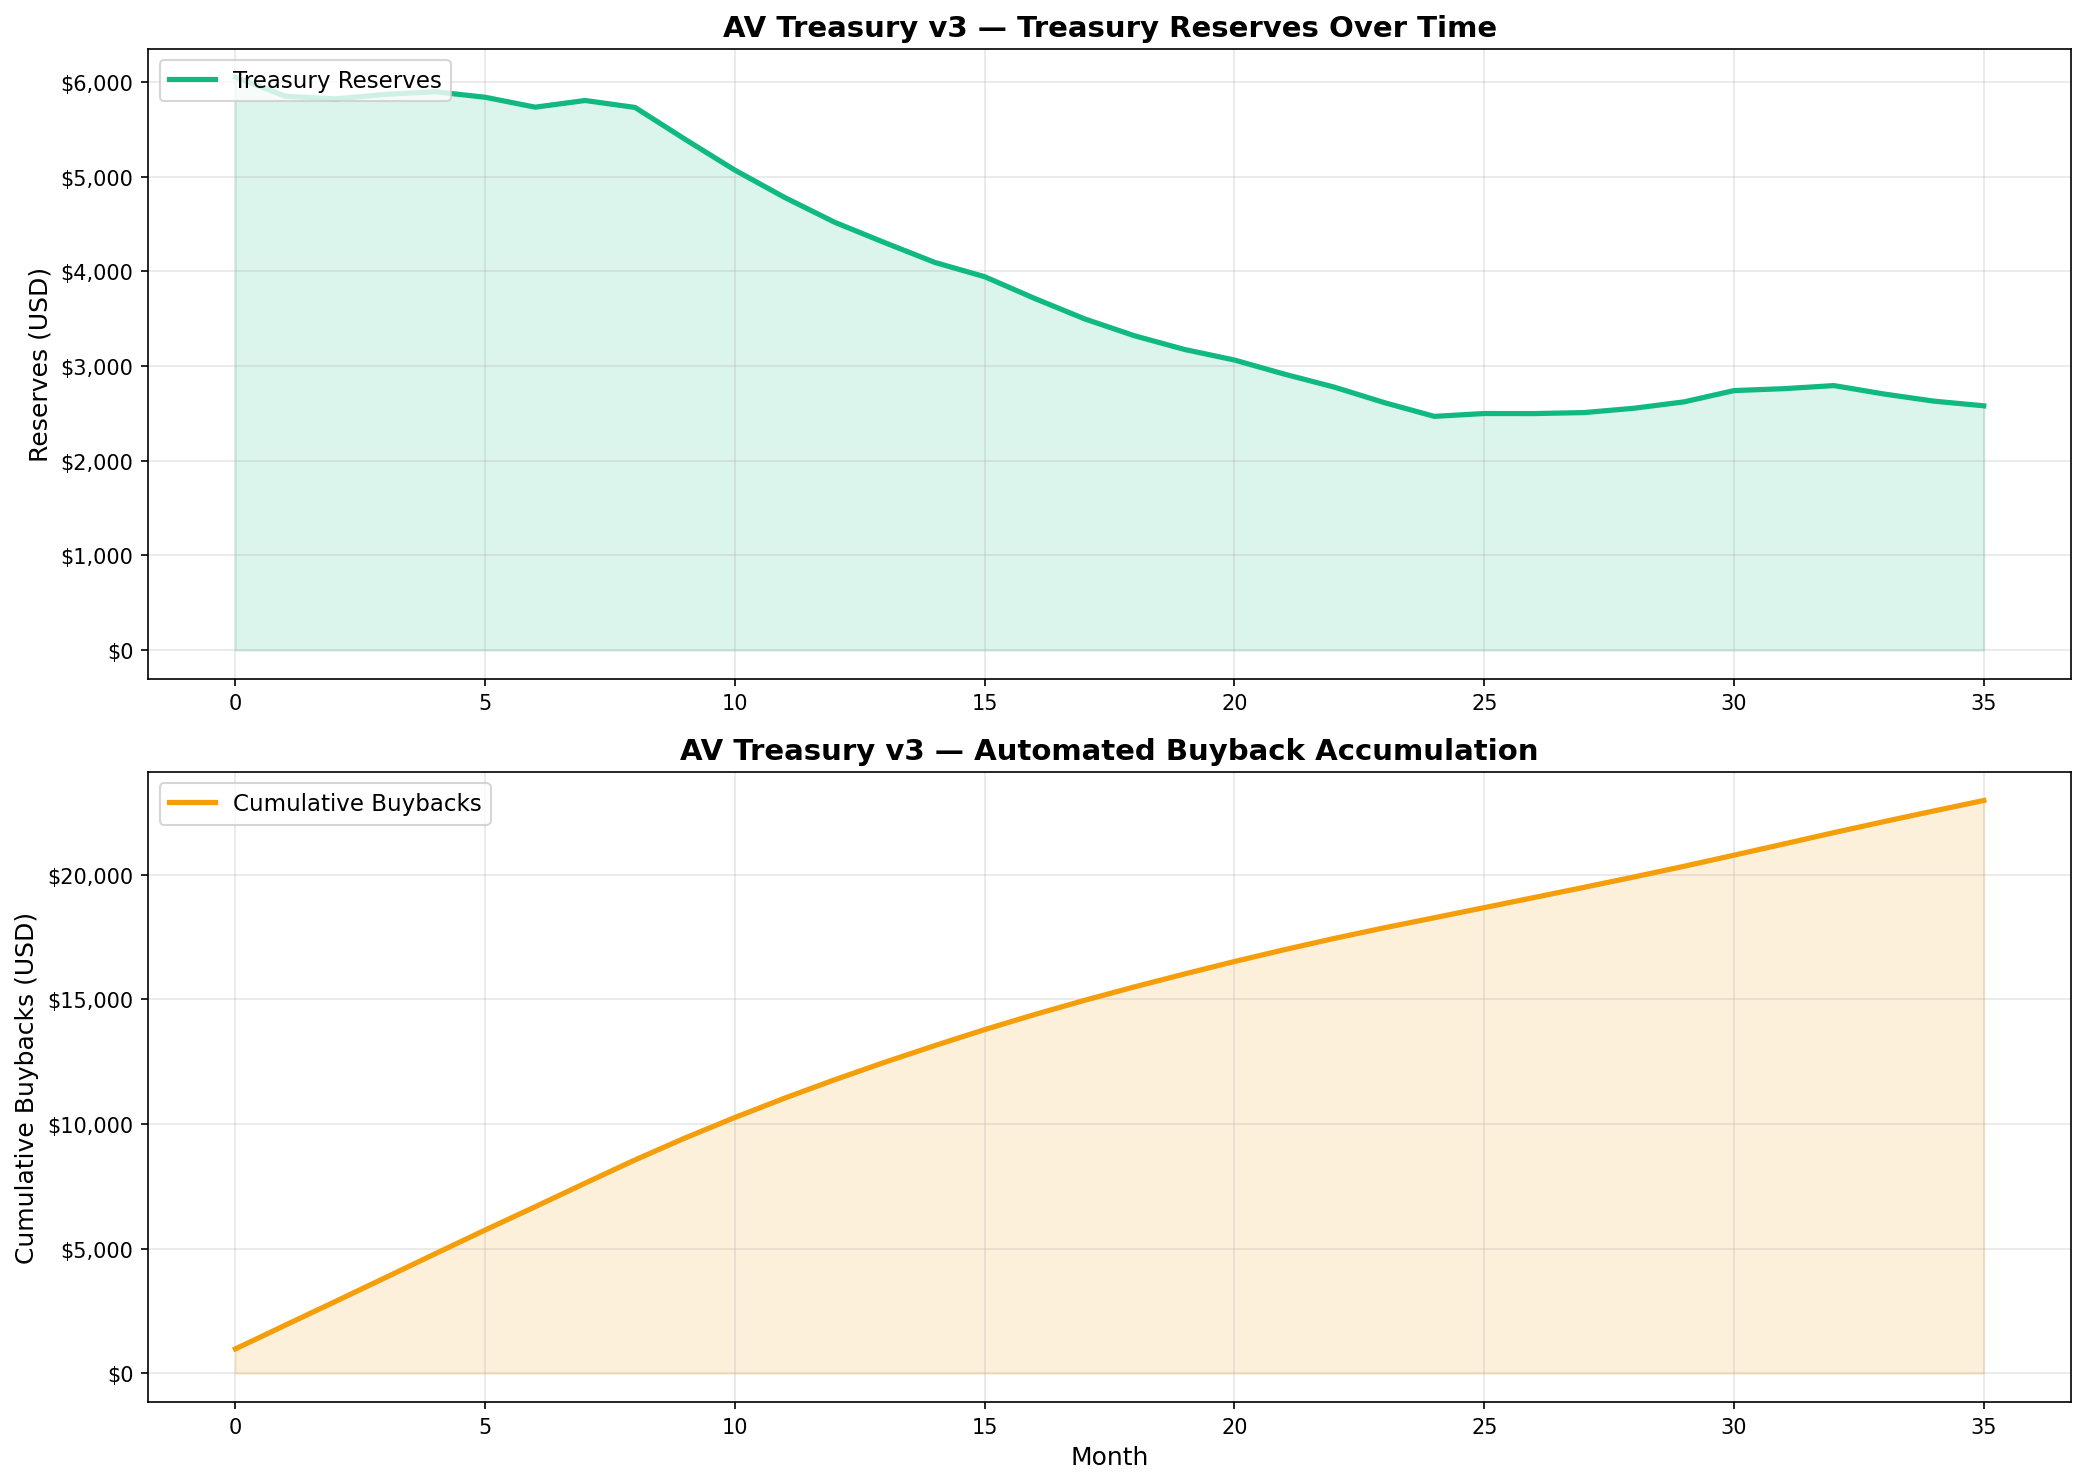
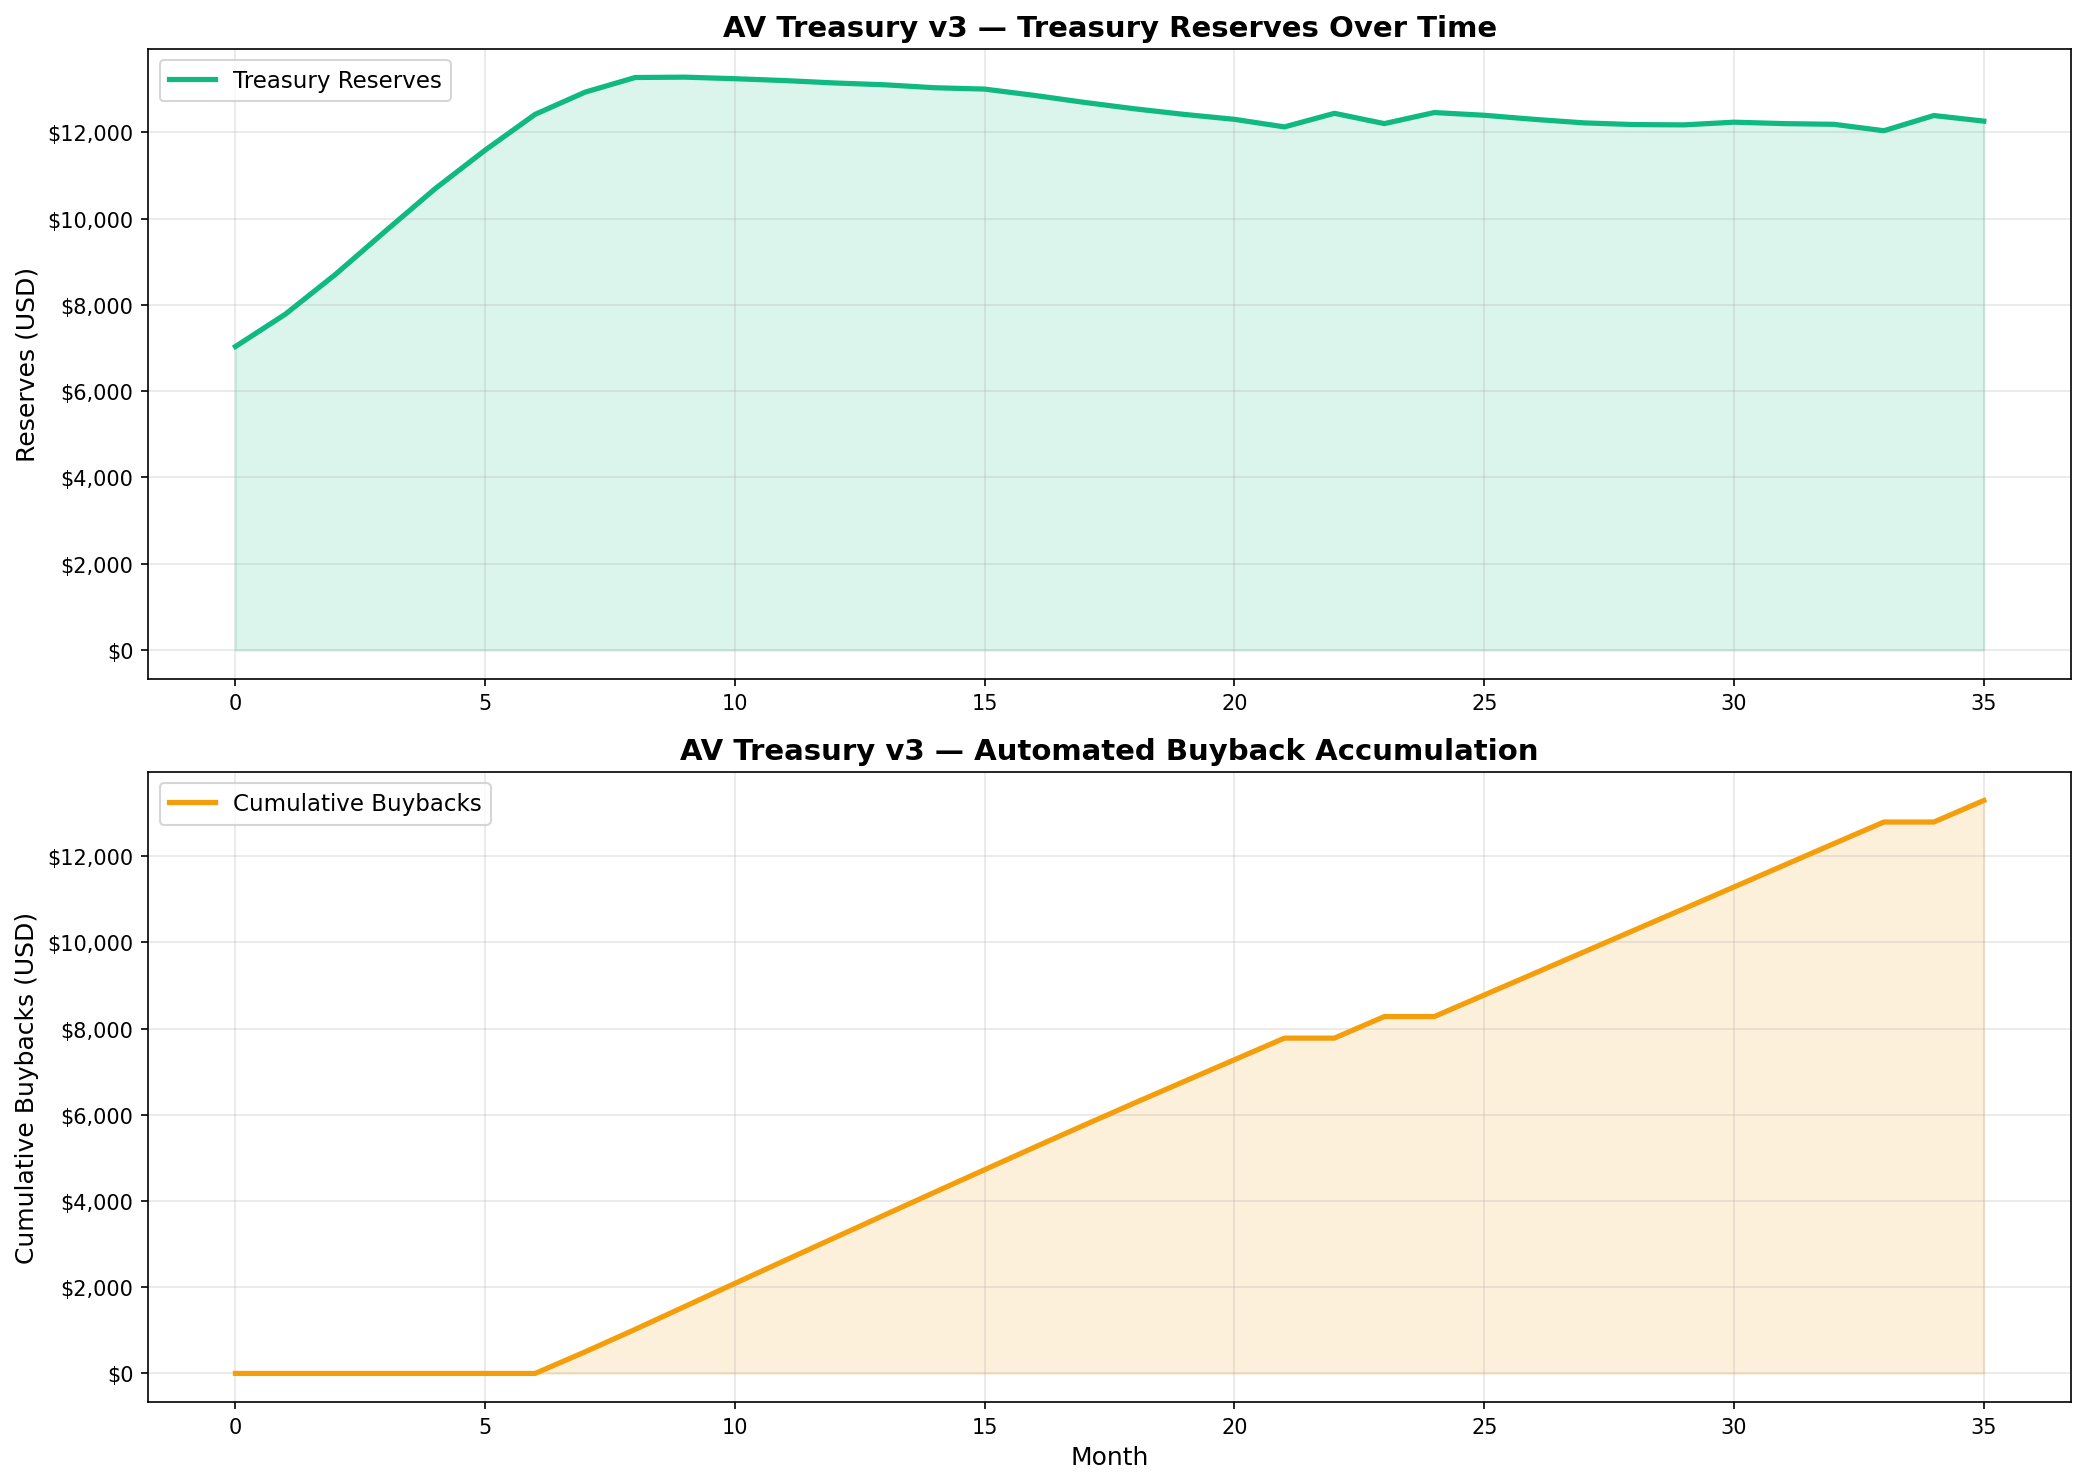
post pentest contract updates

diff --git a/simulator/simulate.py b/simulator/simulate.py
@@ -33,7 +33,7 @@ AU_MAX_FLASH_MINT = 1_000_000
 
 # Ag Token
 AG_MAX_SUPPLY = 100_000_000
-AG_INITIAL_DAILY_CAP = 100_000
+AG_INITIAL_DAILY_CAP = 25_000
 AG_SINGLE_CAP = 10_000
 
 # Staking Multiplier
@@ -43,17 +43,20 @@ STAKING_MULT_DEN = 5000
 STAKING_MAX_MULT = 25000
 
 # PID Controller
-PID_KP = 0.6
-PID_KI = 0.1
+PID_KP = 0.1
+PID_KI = 0.02
 PID_KD = 0.3
 PID_TVL_TARGET = 5_000_000
+PID_BOOTSTRAP_TARGET_TVL = 500_000
+PID_BOOTSTRAP_DURATION_MONTHS = 12
 PID_TWATVL_SMOOTHING_NUM = 99
 PID_TWATVL_SMOOTHING_DEN = 100
 
 # Treasury AMO
 AMO_BUYBACK_COOLDOWN = 1
-AMO_BUYBACK_PCT = 20
-AMO_RESERVE_RUNWAY_MONTHS = 6
+AMO_BUYBACK_PCT = 10
+AMO_RESERVE_RUNWAY_MONTHS = 12
+AMO_MIN_BUYBACK_USD = 500
 
 # Market
 INITIAL_AU_PRICE = 0.01
@@ -151,12 +154,16 @@ def run_simulation():
             state['daily_ag_emitted'][today_key] = 0
         
         total_today = state['daily_ag_emitted'][today_key]
+        
+        # Bootstrap: scale TVL target from $500K to $5M over 12 months
+        current_target = get_bootstrap_target_tvl(day)
+        
         pid_output, state['pid_integral'] = pid_compute(
-            state['twatvl'], PID_TVL_TARGET,
+            state['twatvl'], current_target,
             PID_KP, PID_KI, PID_KD,
             state['pid_integral'], state['pid_prev_error']
         )
-        state['pid_prev_error'] = PID_TVL_TARGET - state['twatvl']
+        state['pid_prev_error'] = current_target - state['twatvl']
         
         if state['ag_price'] > 0:
             ag_to_emit_usd = min(pid_output, AG_INITIAL_DAILY_CAP * state['ag_price'])
@@ -173,6 +180,10 @@ def run_simulation():
         if state['ag_price'] <= 0 or state['twatvl'] <= 0:
             ag_to_emit = 0
         
+        # Emission decay: if TVL dropped below TWATVL, halve the emission
+        if state['tvl'] < state['twatvl'] * 95 / 100:
+            ag_to_emit = ag_to_emit / 2
+        
         state['ag_circulating'] += ag_to_emit
         state['ag_minted_total'] += ag_to_emit
         state['daily_ag_emitted'][today_key] = total_today + ag_to_emit
@@ -184,7 +195,7 @@ def run_simulation():
             if state['treasury_reserves'] > reserve_requirement:
                 excess = state['treasury_reserves'] - reserve_requirement
                 buyback_amount = excess * (AMO_BUYBACK_PCT / 100)
-                if buyback_amount > 0:
+                if buyback_amount >= AMO_MIN_BUYBACK_USD:
                     state['treasury_reserves'] -= buyback_amount
                     state['total_buybacks'] += buyback_amount
                     state['last_buyback_day'] = day
@@ -543,6 +554,15 @@ The AV Treasury v3 system demonstrates sustainable economic dynamics over 36 mon
     with open(filepath, 'w') as f:
         f.write(report)
     print(f"  Report saved: {filepath}")
+
+def get_bootstrap_target_tvl(day):
+    """TVL target scales from $500K at deployment to $5M over 12 months"""
+    month = day // DAYS_PER_MONTH
+    if month >= PID_BOOTSTRAP_DURATION_MONTHS:
+        return PID_TVL_TARGET
+    # Linear interpolation
+    fraction = month / PID_BOOTSTRAP_DURATION_MONTHS
+    return PID_BOOTSTRAP_TARGET_TVL + (PID_TVL_TARGET - PID_BOOTSTRAP_TARGET_TVL) * fraction
 
 # ============ MAIN ============
 

diff --git a/simulator/simulation_report.md b/simulator/simulation_report.md
@@ -7,26 +7,26 @@
 | Au Price | $0.0100 | $0.0049 | -51.1% |
 | Ag Price | $0.0992 | $0.0162 | -83.6% |
 | TVL | $496,780 | $150,272 | -69.8% |
-| Ag Supply | 100,000 | 100,000,000 | +99,900,000 |
-| Treasury | $6,049 | $2,579 | -57.4% |
+| Ag Supply | 136 | 16,794,771 | +16,794,634 |
+| Treasury | $7,034 | $12,257 | +74.3% |
 
 ## Key Metrics
 
 ### Token Performance
 - **Au Price (Month 36):** $0.0049
 - **Ag Price (Month 36):** $0.0162
-- **Ag Total Minted:** 100,000,000 / 100,000,000 cap
-- **Ag Utilization:** 100.0%
+- **Ag Total Minted:** 16,794,771 / 100,000,000 cap
+- **Ag Utilization:** 16.8%
 
 ### Treasury Health
-- **Total Fees Accumulated:** $18,547.85
-- **Total Burned:** $18,547.85
-- **Total Buybacks:** $22,968.71
-- **Treasury Reserves:** $2,579.14
+- **Total Fees Accumulated:** $18,546.51
+- **Total Burned:** $18,546.51
+- **Total Buybacks:** $13,289.05
+- **Treasury Reserves:** $12,257.45
 
 ### Staking
 - **Final Multiplier:** 2.50x
-- **Staked LP Value:** $59,474.43
+- **Staked LP Value:** $57,633.69
 
 ### PID Controller
 - **TVL Target:** $5,000,000
